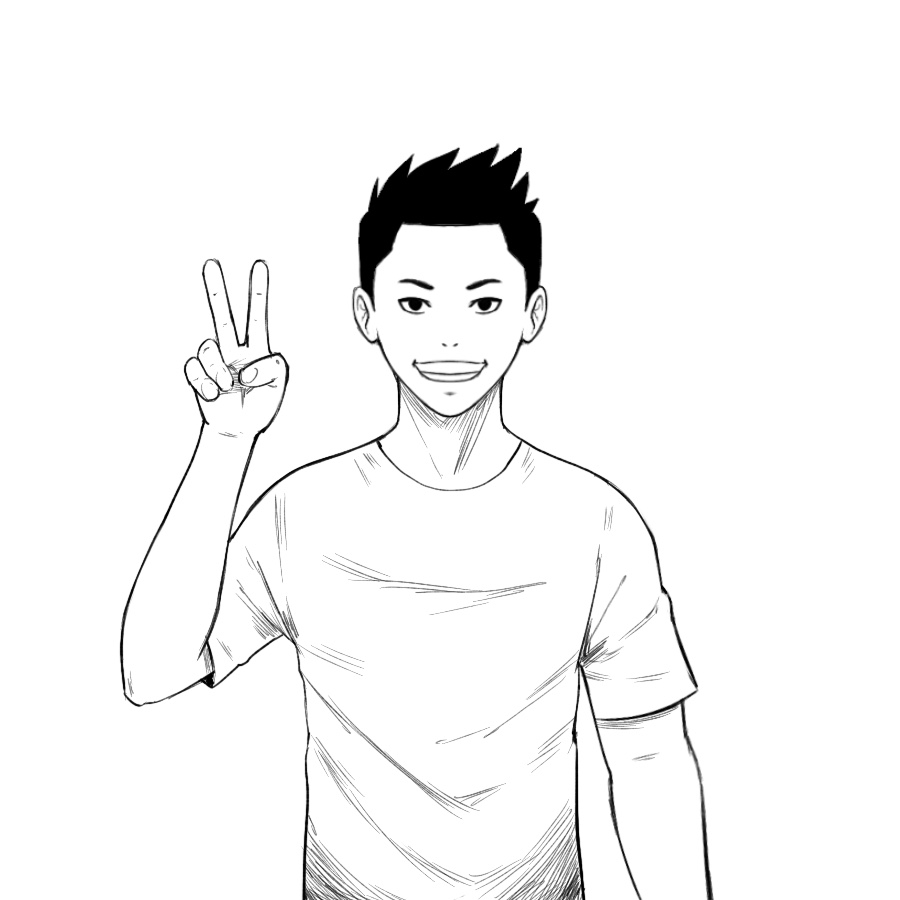
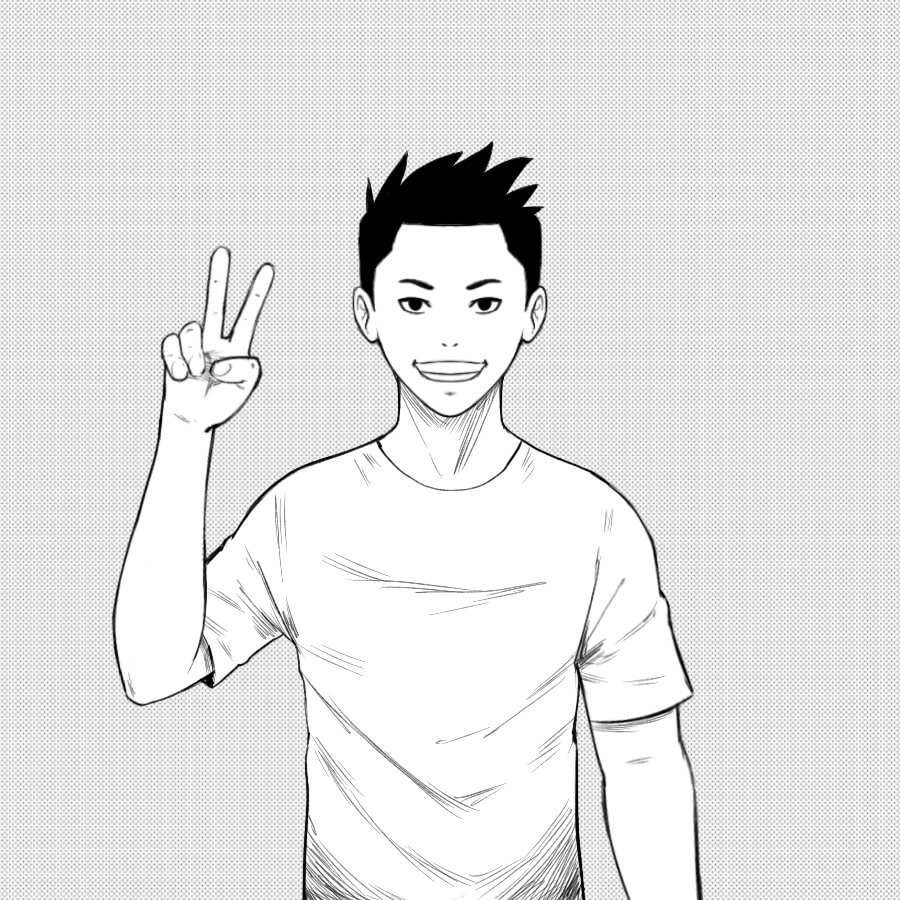
new drawings and new layout

diff --git a/styles.css b/styles.css
@@ -32,7 +32,7 @@ body{
 
 .container{
     width: 100vw;
-    height: auto;
+    height: 100vh;
     display: flex;
     flex-direction: column;
     align-items: center;
@@ -45,9 +45,9 @@ body{
     width: var(--width) ;
     height: var(--width);
     border: 2px solid var(--graphite);
-    border-radius: var(--border-radius);
+    border-radius: var(--border-radius) var(--border-radius) 0 0 ;
     background-color: white;
-   overflow: hidden;
+    overflow: hidden;
 
     display: flex;
     flex-direction: row-reverse;
@@ -75,6 +75,25 @@ body{
     border-radius: var(--border-radius);
     padding: 15px;
     box-shadow: 0px 15px 30px rgba(32, 32, 32, 0.15);
+
+}
+
+.next{
+    
+    animation-duration: 1.8s;
+    animation-timing-function: ease;
+    animation-name: float;
+    animation-delay: 0.2s;
+    animation-iteration-count: infinite;
+}
+
+@keyframes float {
+    0%{
+        transform: translateY(0%);
+    }
+    50%{
+        transform: translateY(-5%);
+    }
 }
 
 .buttons>button{
@@ -102,14 +121,29 @@ body{
     border: 1px solid var(--graphite);
 }
 
+
 .text-globe{
+    width: var(--width);
+    height: 100px;
+    background-color: white;
+    border: 2px solid var(--graphite);
+    padding: 40px;
+    text-align: center;
+    border-radius: 0 0 var(--border-radius) var(--border-radius);
+
+    display: grid;
+    place-content: center;
+    z-index: 3;
+   
+    }
+
+/* .text-globe{
     width: var(--width-globe-text);
     height: var(--height-globe-text);
     background-color: white;
     border: 2px solid var(--graphite);
     padding: 40px;
     text-align: center;
-    /* box-shadow: 0px 15px 30px rgba(32, 32, 32, 0.15); */
     border-radius: 50%;
 
     
@@ -127,7 +161,7 @@ body{
     animation-delay: 0.2s;
     transform: translateY(-50%);
    
-    }
+    } */
 
     .frame>.img{
         background-size: 100%;
@@ -174,18 +208,30 @@ body{
         
         }
 
-        
+/*small desktop*/     
 @media screen and (max-height:720px){
 
     :root{
-        --width: 570px;
+        --width: 480px;
+    }
+
+    
+    .container{
+        gap: 10px;
     }
 
     .buttons>button{
-        width: 30vh;
+        font-size: 15px;
+        width: 20vw;
+    }
+
+    .text-globe{
+        height: 80px;
+        padding: 20px;
     }
 }
 
+/*mobile*/
 @media screen and (max-width:480px){
 
     :root{
@@ -195,32 +241,24 @@ body{
     }
 
 
-    .buttons>button{
-        width: 35vw;
+    .buttons{
+        padding: 10px;
+    }
+
+    .container{
+        gap: 15px;
     }
 
     .buttons>button{
-        font-size: 14px;
+        font-size: 15px;
+        width: 120px;
     }
 
     .text-globe{
-        padding: 20px;     
-        font-size: 12px;
-        
-    
-        display: grid;
-        place-content: center;
-        position: absolute; 
-        right: -15px;
-        top: 100px;
-    
-        z-index: 3;
-    
-        transition: transform 1s ease-in-out;
-        animation-name: globe-text;
-        animation-delay: 0.2s;
-        transform: translateY(-50%);
-       
-        }
+        height: 120px;
+        padding: 20px;
+    }
+}
+
 
 }

diff --git a/index.html b/index.html
@@ -13,16 +13,16 @@
     
     <div class="container">
 
+       
         
         
         <div class="row">
             
-            <div class="text-globe">
+          <!--   <div class="text-globe">
                 <p id="text"></p>
-            </div>
-            <div class="carousel">   
-                            
-    
+            </div> -->
+
+            <div class="carousel">                  
 
                 <div class="frame">
                     <div class="scene-01 img"></div>
@@ -102,6 +102,13 @@
 
             </div>
             
+
+            
+            
+        </div>
+
+        <div class="text-globe">
+            <p id="text"></p>
         </div>
         <div class="buttons">
             <button href="" class="carousel__button next" id="next">Siguiente</button>
